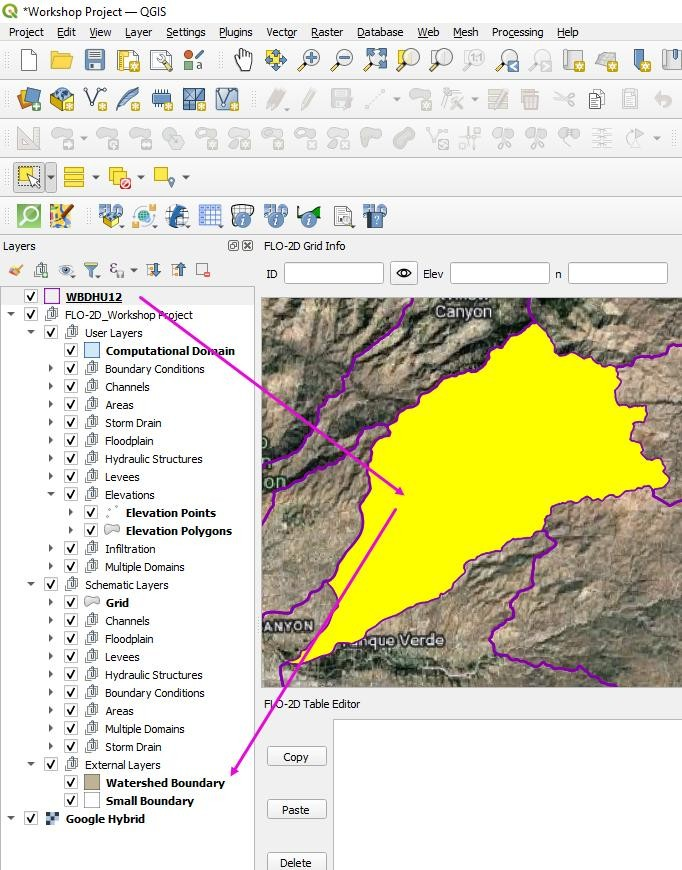
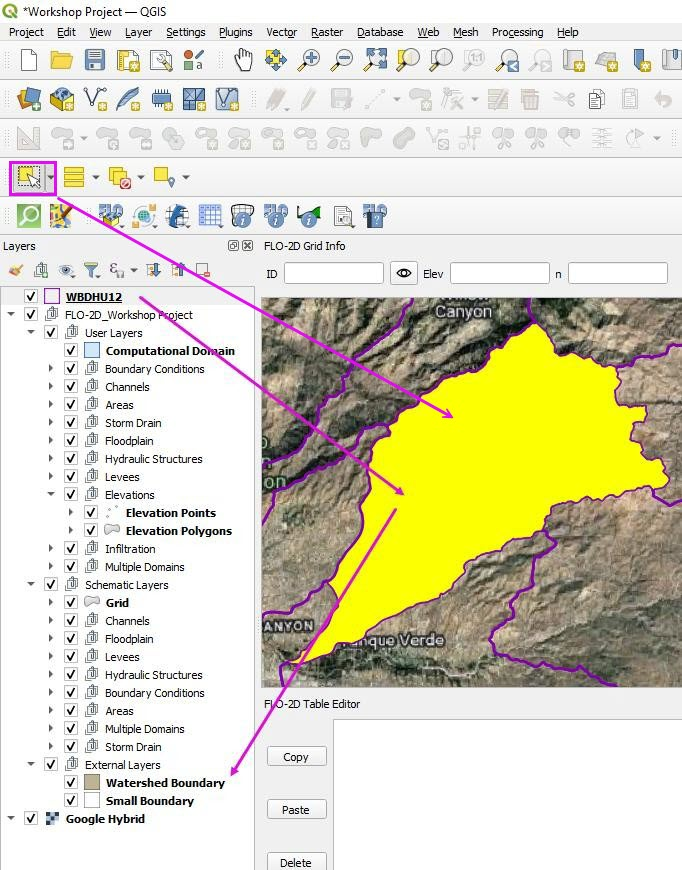
Update the flow line section and the watershed polygon download section

diff --git a/source/tutorials/hydrowkshp/module2.rst b/source/tutorials/hydrowkshp/module2.rst
@@ -14,7 +14,7 @@ Step 1: Load data
 Step 2: Save one Watershed
 ---------------------------------------------------
 
-- Zoom to the Agua Caliente Watershed.
+- Zoom to the **Agua Caliente** Watershed.
 - Wait for the watershed polygons to load.
 - Use the Select tool to select a watershed polygon.
 
@@ -39,10 +39,14 @@ These can be used for FLO-2D or any other 2D model.
 
 |hydrow019|
 
+- Adjust the polygon style to remove the fill and make the outline heavier.
+
+|hydrow019h|
+
 Step 4: Load the Flow Lines
 ---------------------------------------------------
 
-- Open the Data Manager tool and load the ArcGIS REST tab.
+- Open the **Data Manager** tool and load the **ArcGIS REST** tab.
 - Select the Hydrography layer and click Connect.
 - Select the FlowDirection Raster and click ADD.
 
@@ -50,7 +54,21 @@ Step 4: Load the Flow Lines
 
 This project uses Soldier Canyon which is the streamline on the north-east side of the map.
 
+.. important:: If the Flow Direction arrows are not visible, zoom in to a smaller area and 
+   allow them to render. Once they display at a closer scale, they typically load more 
+   efficiently when zooming back out to a larger extent.
+
 |hydrow019b|
+
+- Once the Flow Directions load, export them to a raster file.
+
+|hydrow019e|
+
+- Fill the form as shown and click OK.
+
+|hydro019f|
+
+- Uncheck the source layer and move both layers to the Watershed Group.
 
 Step 5: Trim the Watershed Polygon
 ---------------------------------------------------
@@ -89,3 +107,11 @@ This is the rough project extent.
 .. |hydrow019c| image:: ../img/hydrowkshp/hydrow019c.png
 
 .. |hydrow019d| image:: ../img/hydrowkshp/hydrow019d.png
+
+.. |hydrow019e| image:: ../img/hydrowkshp/hydrow019e.png
+
+.. |hydrow019f| image:: ../img/hydrowkshp/hydrow019f.png  
+
+.. |hydrow019g| image:: ../img/hydrowkshp/hydrow019g.png
+
+.. |hydrow019h| image:: ../img/hydrowkshp/hydrow019h.png    

diff --git a/source/tutorials/hydrowkshp/module1.rst b/source/tutorials/hydrowkshp/module1.rst
@@ -66,7 +66,7 @@ Step 3: Load QGIS
 |hydrow010|
 
 Module 1 - Connect Data 
------------------------------------------------------
+=============================
 
 Use the following steps to connect to U.S. government or international data servers. If a local agency provides a server connection URL, 
 QGIS can connect to it using the same workflow. Servers that require authentication can be configured through the QGIS connection settings.
